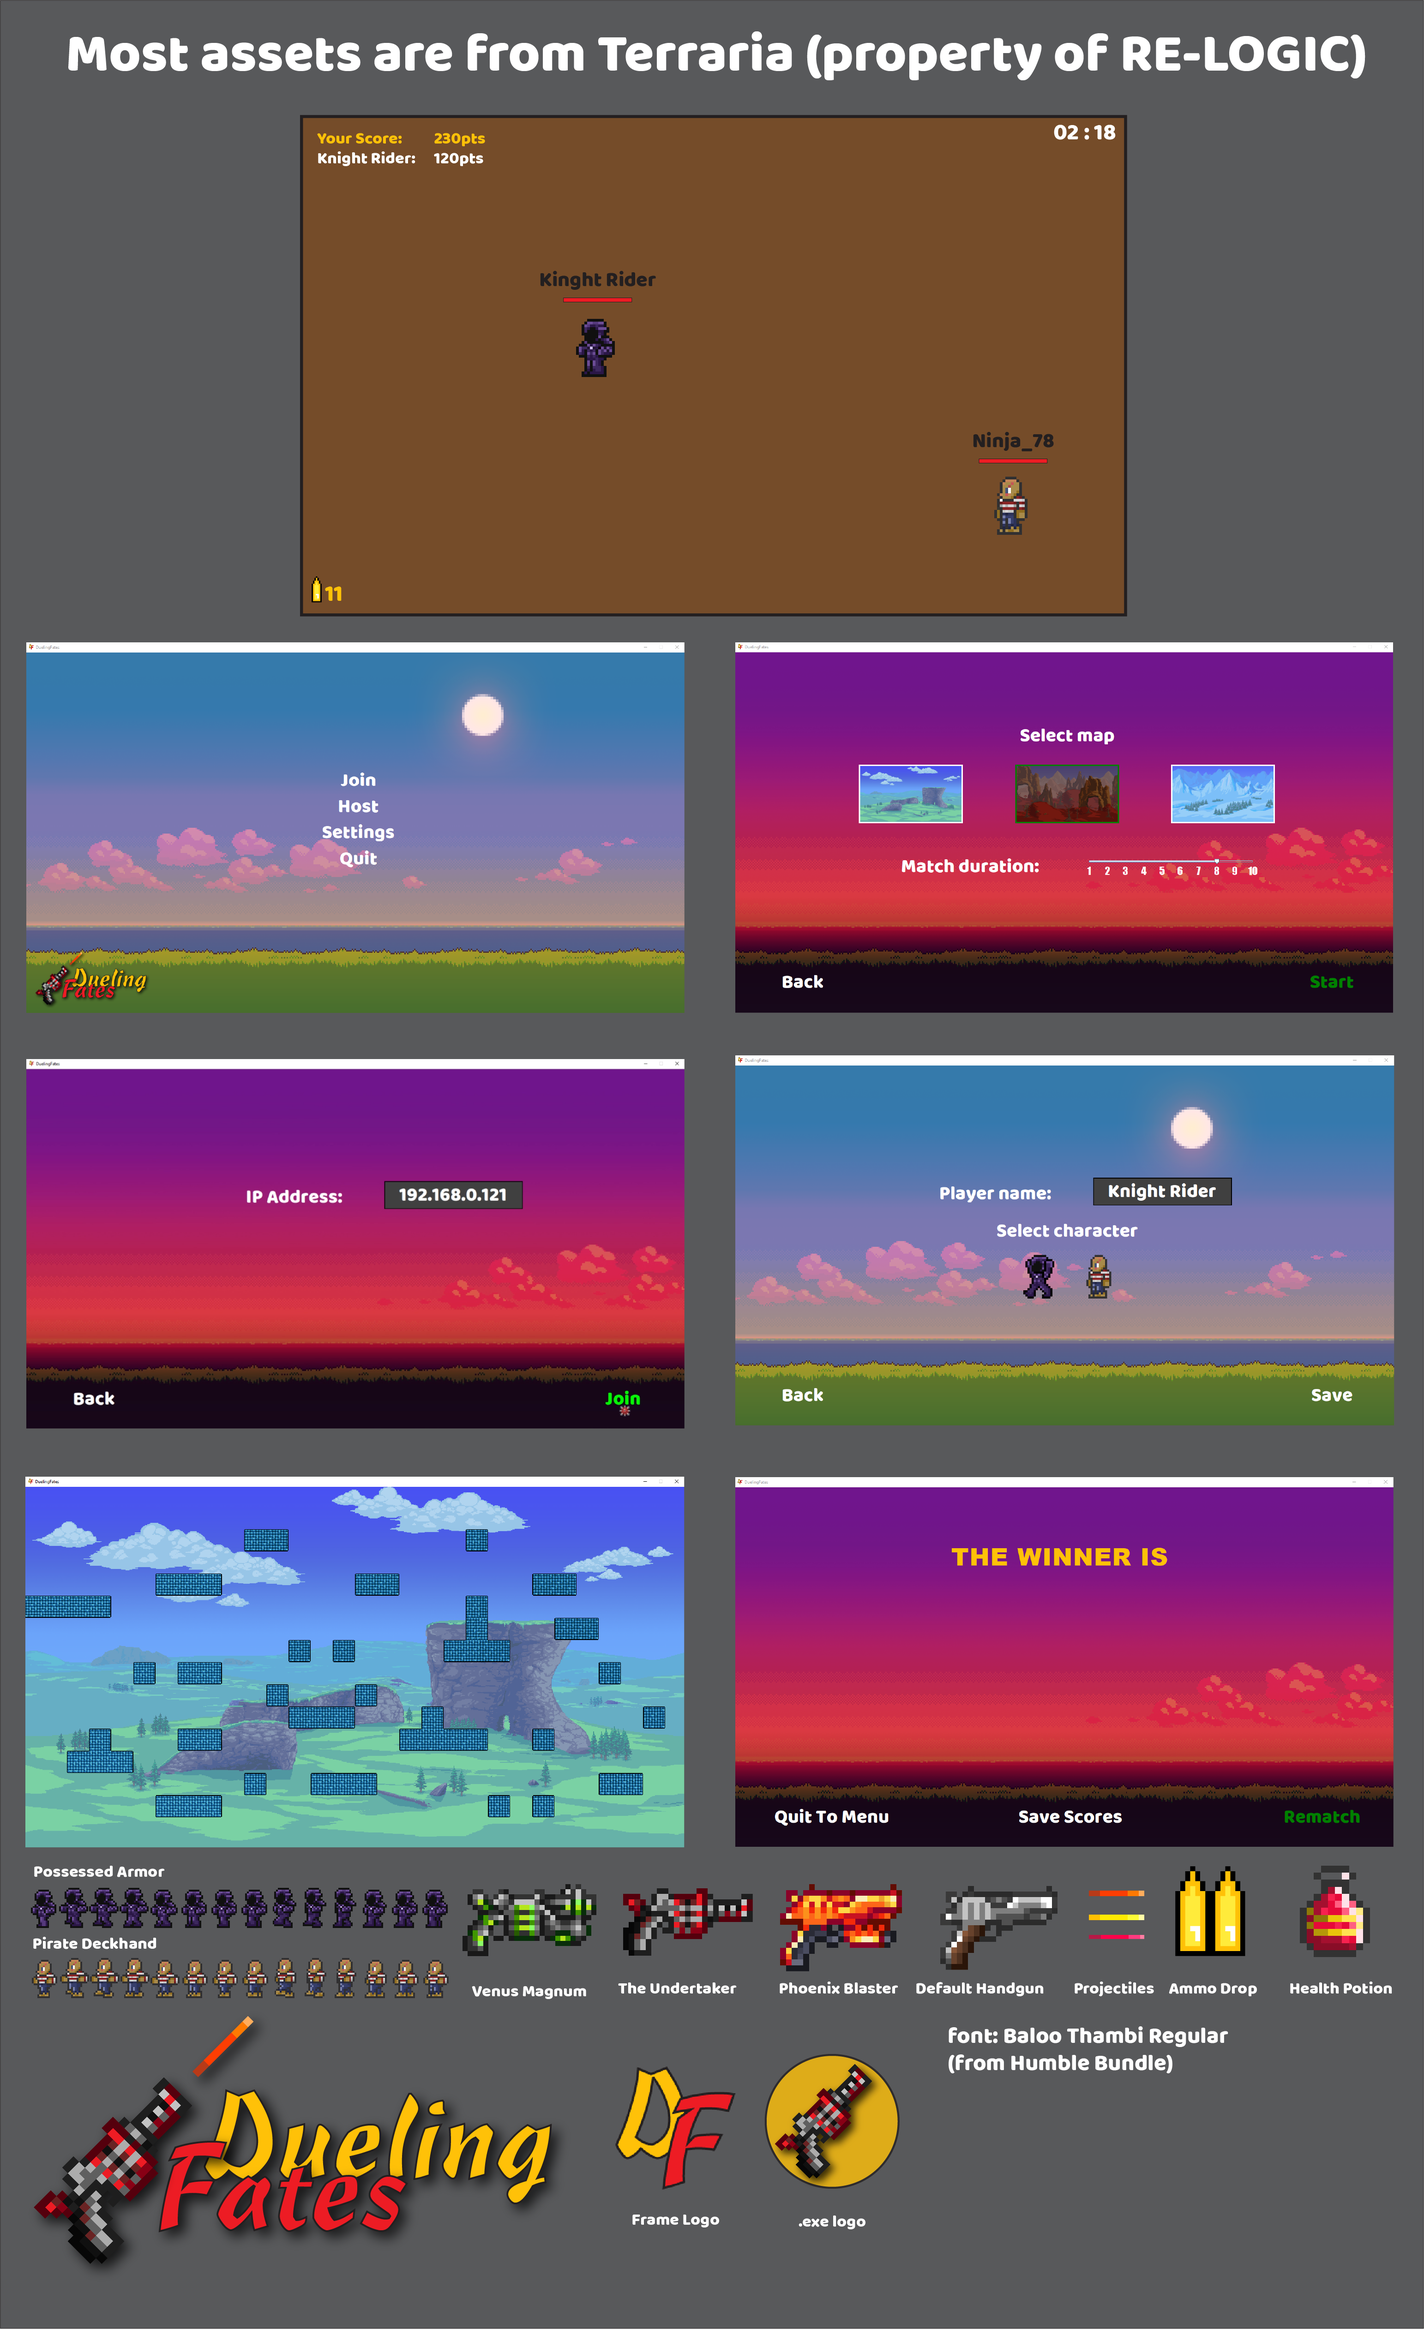
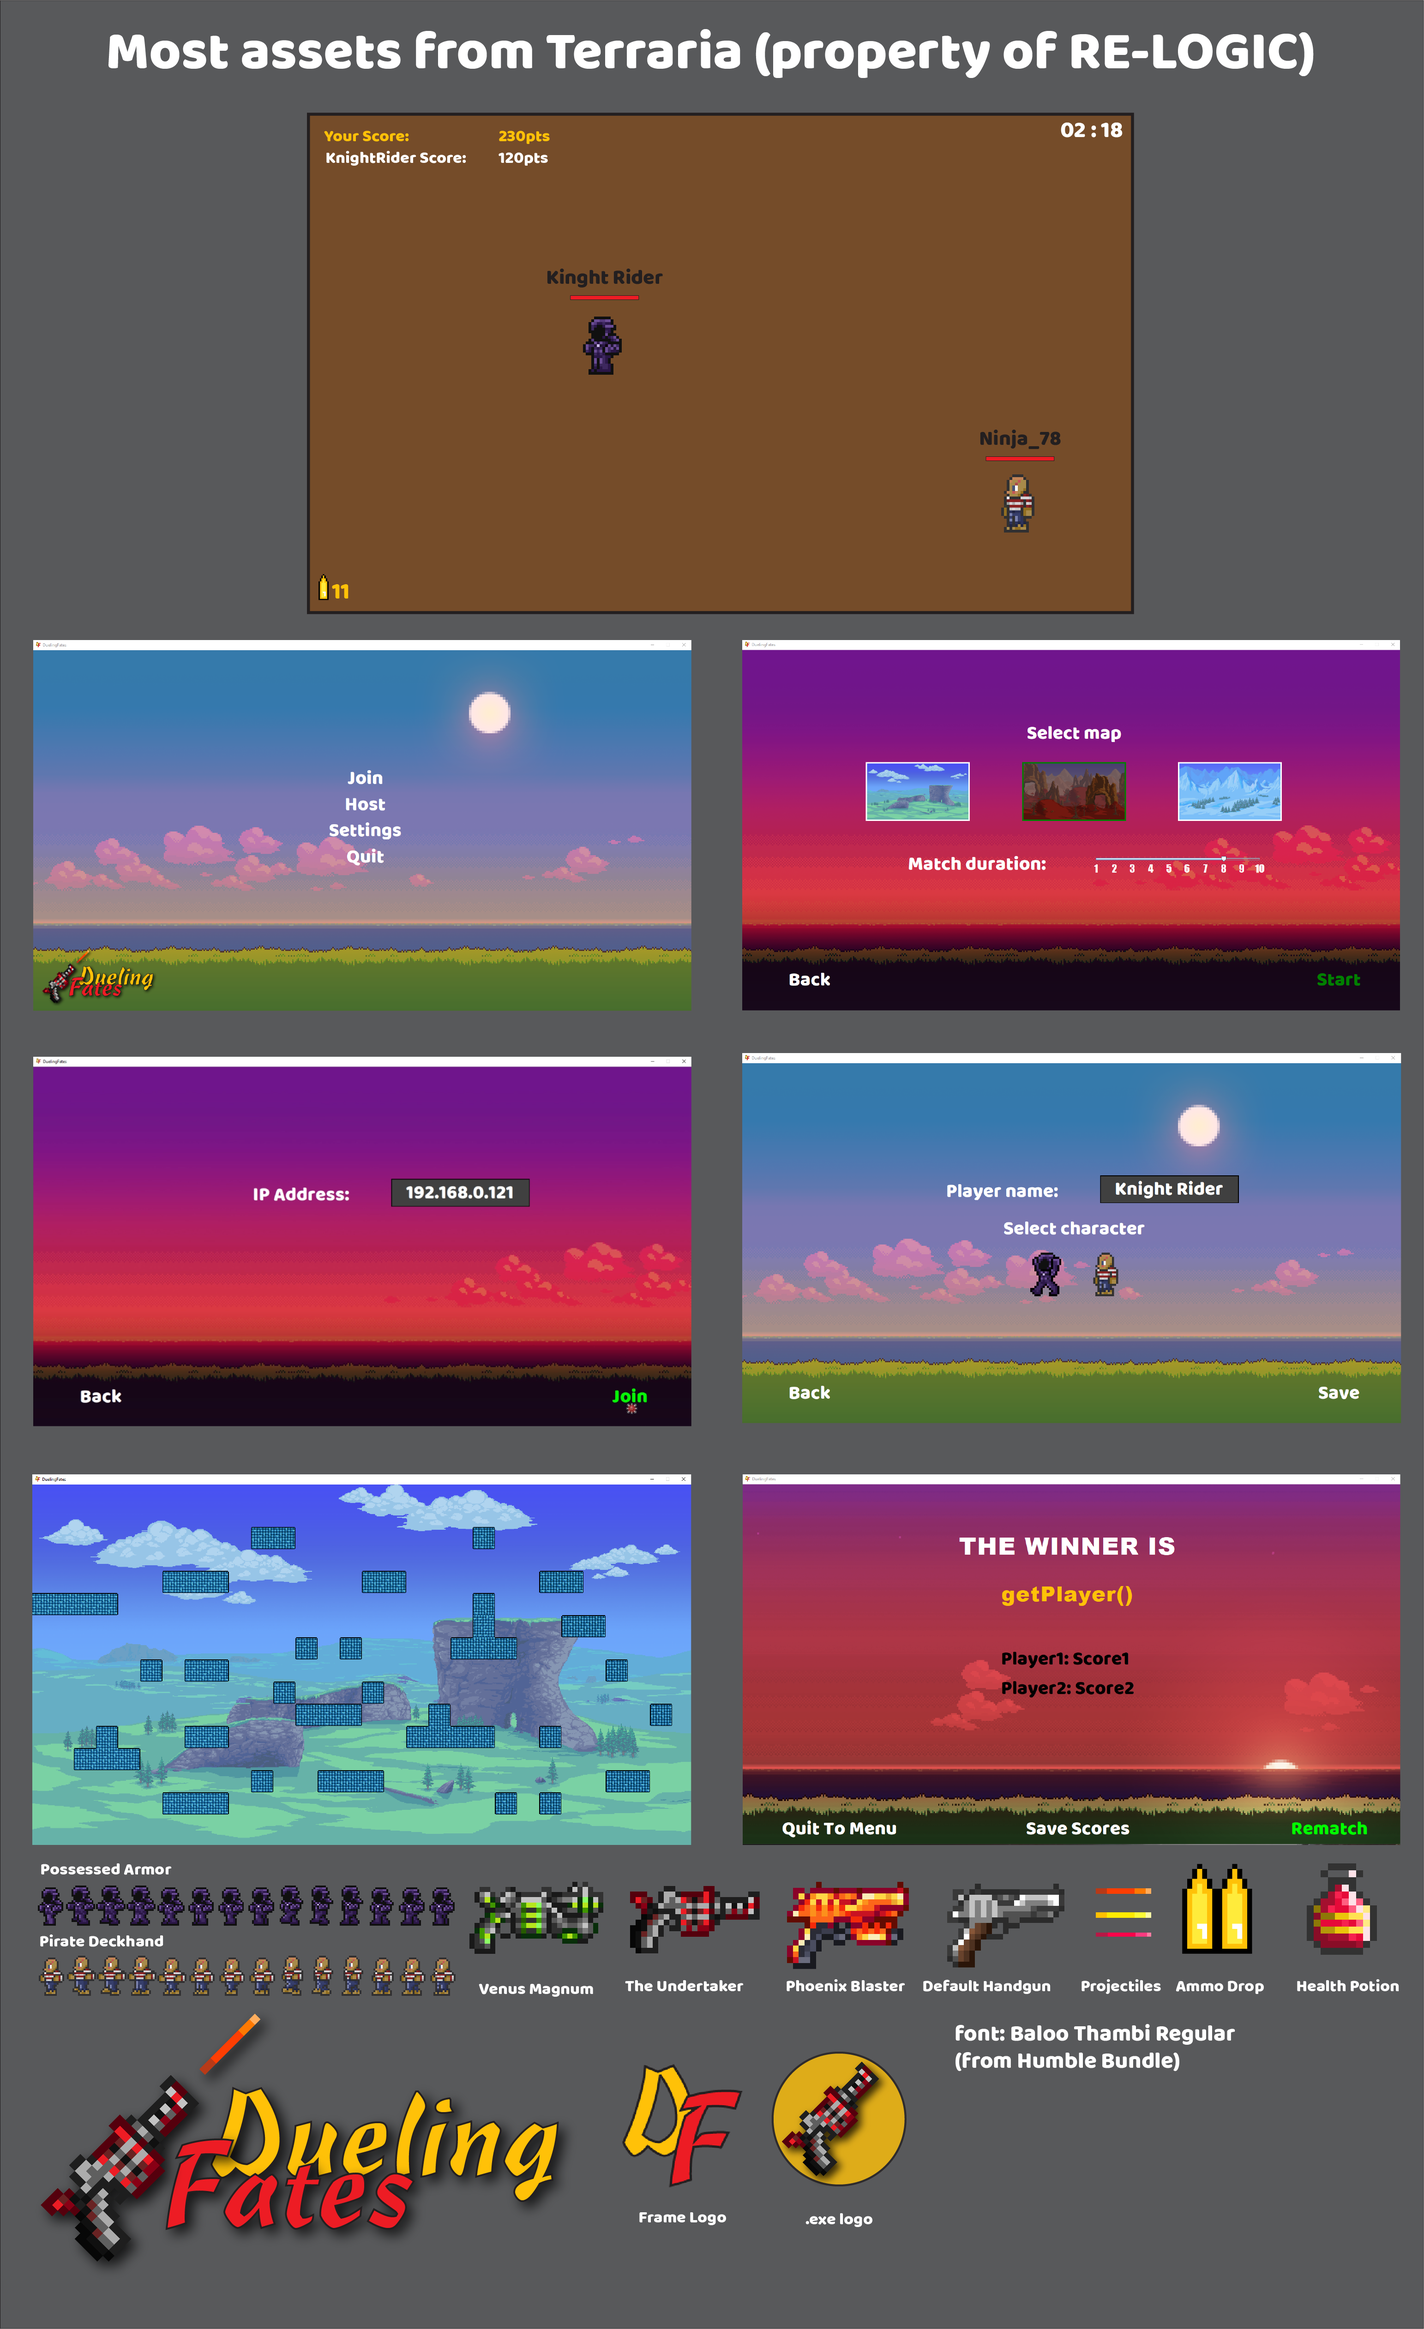
File writing, Only 2 player swing and fullscreen

Changed region(s): [[0.0, 0.0, 0.9958, 0.9643], [0.4045, 0.0933, 0.4357, 0.1866], [0.1867, 0.4977, 0.2489, 0.5288]]

diff --git a/DuelingFates/src/com/DuelingFates/GameState/ScoreState.java b/DuelingFates/src/com/DuelingFates/GameState/ScoreState.java
@@ -5,6 +5,9 @@ import com.DuelingFates.Main.MainProcess;
 import javax.swing.*;
 import java.awt.*;
 import java.awt.event.*;
+import java.io.*;
+import java.text.SimpleDateFormat;
+import java.util.Date;
 
 public class ScoreState extends GameState implements MouseListener, ActionListener {
 
@@ -20,8 +23,18 @@ public class ScoreState extends GameState implements MouseListener, ActionListen
 
     //Labels
     private final JLabel winnerLabel = new JLabel("THE WINNER IS");
+    private JLabel player1Label;
+    private JLabel player2Label;
 
+    //player adatok
+    private String player1Score;
+    private String player2Score;
 
+    //file adatok //nem a legjobb megoldás, Windows API-t használva biztonságosabb lenne
+    private final static File resultsTxt = new File("C:/Users/" + System.getProperty("user.name") + "/Desktop/results.txt");
+
+    //formátum a fájl kiírásához
+    SimpleDateFormat dateStyle = new SimpleDateFormat("yyyy/MM/dd HH:mm:ss");
 
     public ScoreState(StateManager stateManager){
 
@@ -45,10 +58,18 @@ public class ScoreState extends GameState implements MouseListener, ActionListen
 
     }
 
-    public void showWinnderAndPlayerScores(String player1, String player2, String player3, String score1, String score2, String score3 ){
+    public void printPlayersAndScores(String results){
 
-        //még nem tudom mi lesz itt
+        try {
 
+            BufferedWriter writer = new BufferedWriter(new FileWriter(resultsTxt, true));
+
+            writer.write(results);
+            writer.close();
+
+        }catch (IOException e) {
+            e.printStackTrace();
+        }
     }
 
     @Override
@@ -73,12 +94,21 @@ public class ScoreState extends GameState implements MouseListener, ActionListen
         winnerName.setForeground(MainMenuState.darkYellow);
         winnerName.setBounds((MainProcess.getGameWidth()/2)-370, (int)(MainProcess.getGameHeight()*0.25),700,90);
 
-        String playerText = "<html>Player1: Score1<br/>Player2: Score2<br/></html>";
-        JLabel playerScores = new JLabel(playerText);
-        playerScores.setHorizontalAlignment(SwingConstants.CENTER);
-        playerScores.setFont(MainProcess.BalooThambiFont);
-        playerScores.setForeground(Color.BLACK);
-        playerScores.setBounds((MainProcess.getGameWidth()/2)-370, (int)(MainProcess.getGameHeight()*0.37),700,300);
+        player1Score = "getName(): + getScore()";
+        player1Label = new JLabel(player1Score);
+        player2Score = "getName(): + getScore()";
+        player2Label = new JLabel(player2Score);
+
+        player1Label.setHorizontalAlignment(SwingConstants.CENTER);
+        player1Label.setFont(MainProcess.BalooThambiFont);
+        player1Label.setForeground(Color.BLACK);
+        player1Label.setBounds((MainProcess.getGameWidth()/2)-370, (int)(MainProcess.getGameHeight()*0.43),700,60);
+
+        player2Label.setHorizontalAlignment(SwingConstants.CENTER);
+        player2Label.setFont(MainProcess.BalooThambiFont);
+        player2Label.setForeground(Color.BLACK);
+        player2Label.setBounds((MainProcess.getGameWidth()/2)-370, (int)(MainProcess.getGameHeight()*0.50),700,60);
+
 
         layeredPane.setBounds(0,0, MainProcess.getGameWidth(), MainProcess.getGameHeight());
         layeredPane.add(backgroundLabel, JLayeredPane.DEFAULT_LAYER);
@@ -87,7 +117,9 @@ public class ScoreState extends GameState implements MouseListener, ActionListen
         layeredPane.add(buttonSaveToFile,JLayeredPane.POPUP_LAYER);
         layeredPane.add(winnerLabel, JLayeredPane.POPUP_LAYER);
         layeredPane.add(winnerName,JLayeredPane.POPUP_LAYER);
-        layeredPane.add(playerScores,JLayeredPane.POPUP_LAYER);
+        layeredPane.add(player1Label,JLayeredPane.POPUP_LAYER);
+        layeredPane.add(player2Label,JLayeredPane.POPUP_LAYER);
+
 
         duelingFates.setCursor(MainProcess.gameCursor);
         duelingFates.add(layeredPane);
@@ -105,16 +137,15 @@ public class ScoreState extends GameState implements MouseListener, ActionListen
         buttonSaveToFile.addActionListener(this);
         buttonSaveToFile.addMouseListener(this);
 
-
         buttonRematch.setBounds((int)(MainProcess.getGameWidth()*0.91)-200, (int)(MainProcess.getGameHeight()*0.90), 300,50);
         buttonRematch.setForeground(Color.green);
         buttonRematch.addActionListener(this);
         buttonRematch.addMouseListener(this);
 
-
         duelingFates.repaint();
 
         StateManager.setStateChangedFalse();
+
 
     }
 
@@ -135,7 +166,9 @@ public class ScoreState extends GameState implements MouseListener, ActionListen
 
         if(e.getSource() == buttonSaveToFile) {
 
-            System.out.println("PrintPlayersAndScores() has been called!");
+            Date time = new Date();
+            String results = new String(dateStyle.format(time) + "\t" + player1Score + " \t" + player2Score + "\n");
+            printPlayersAndScores(results);
 
         }
 

diff --git a/DuelingFates/src/com/DuelingFates/HUDs/HUD.java b/DuelingFates/src/com/DuelingFates/HUDs/HUD.java
@@ -14,26 +14,31 @@ public class HUD {
     //TODO list: evlileg ha csak a player saját adatait definiáljuk
     //és majd a Server ezeket megjeleníti, akkor nincs szükség az enemy UI-ra
     //ha nem, akkor csak két főre kell limitálnunk, és implementálni
+    //TODO: lehet enemy és player helyett first place és second place kell, ezáltal egyszerűbb lehet
 
     //player adatok
     private String playerNameUI;
     private String playerAmmoUI;
     private String playerScoreUI;
 
+    //enemy adatok
+    private String enemyNameUI;
+    private String enemyScoreUI;
 
     //egyéb adatok
     private String timerValue;
     private final String playerScoreLabel = new String("Your score:");
+    private final String enemyScoreLabel;
 
     //ammo image
     private BufferedImage ammoImg;
 
     public HUD(Player p){
 
-        this.timerValue = "getTimerValue()";
-        this.playerNameUI = "getPlayerName()";
-        this.playerScoreUI = "getPlayerScore()";
-        this.playerAmmoUI = "getPlayerAmmo()";
+        //session során nem frissülő adatok
+        enemyScoreLabel = "EnemyName() score:";
+        playerNameUI = "getPlayerName()";
+        enemyNameUI = "getEnemyName()";
 
         try{
 
@@ -49,6 +54,14 @@ public class HUD {
     //TODO: Ha a playert, mindig átadjuk argumentumként akkor az adatok könnyen lekérdezhetők
     public void draw(Graphics2D graphics){
 
+        //frissülő adatok lekérdezése
+        timerValue = "getTimerValue()";
+
+        playerScoreUI = "getPlayerScore()";
+        playerAmmoUI = "getPlayerAmmo()";
+
+        enemyScoreUI = "getEnemyScore()";
+
         graphics.setRenderingHint(RenderingHints.KEY_TEXT_ANTIALIASING,RenderingHints.VALUE_TEXT_ANTIALIAS_LCD_HRGB);
 
         graphics.drawImage(ammoImg,(int)(MainProcess.getGameWidth()*0.05),(int)(MainProcess.getGameHeight()*0.90),ammoImg.getWidth(),ammoImg.getHeight(),null);
@@ -58,10 +71,26 @@ public class HUD {
         graphics.drawString(playerScoreLabel,(int)(MainProcess.getGameWidth()*0.05),(int)(MainProcess.getGameHeight()*0.05));
         graphics.drawString(playerScoreUI,(int)(MainProcess.getGameWidth()*0.25),(int)(MainProcess.getGameHeight()*0.05));
 
+        graphics.setColor(Color.white);
+        graphics.drawString(enemyScoreLabel,(int)(MainProcess.getGameWidth()*0.05),(int)(MainProcess.getGameHeight()*0.11));
+        graphics.drawString(enemyScoreUI,(int)(MainProcess.getGameWidth()*0.25),(int)(MainProcess.getGameHeight()*0.05));
+
         graphics.setColor(Color.WHITE);
         graphics.drawString(timerValue,(int)(MainProcess.getGameWidth()*0.05),(int)(MainProcess.getGameHeight()*0.95));
 
+        //Player adatok
         /**graphics.drawString(playerNameUI,(int)getPlayerPositionX(), (int)getPlayerPositionY()-80);
+
+         graphics.setColor(MainMenuState.darkRed);
+         graphics.fillRect(getPlayerHP(), 40, (int)getPlayerPositionX(), (int)getPlayerPositionY-50());
+
+         graphics.setColor(Color.BLACK);
+         graphics.drawRect((int)(MainProcess.getGameWidth()*0.06), 40, (int)getPlayerPositionX(), (int)getPlayerPositionY-50());
+
+         **/
+
+        //Enemy adatok
+        /**graphics.drawString(enemyNameUI,(int)getPlayerPositionX(), (int)getPlayerPositionY()-80);
 
          graphics.setColor(MainMenuState.darkRed);
          graphics.fillRect(getPlayerHP(), 40, (int)getPlayerPositionX(), (int)getPlayerPositionY-50());

diff --git a/DuelingFates/src/com/DuelingFates/TileMap/TileMap.java b/DuelingFates/src/com/DuelingFates/TileMap/TileMap.java
@@ -27,7 +27,7 @@ public class TileMap {
     private Tile tileHorizontal;
     private Tile tileVertical;
 
-    public TileMap(int tileSize) {                      //64x64 miatt 30db soronként és 16 oszloponként
+    public TileMap(int tileSize) {                      //1920*1080 64x64 miatt 30db soronként és 16 oszloponként     //1600*9000 53*53
 
         this.tileSize = tileSize;
         this.tiles = new Tile[9];
@@ -37,6 +37,7 @@ public class TileMap {
     public void loadTilesFormFiles(String fileLocation) {
 
         try {
+
             tileLonely = new Tile(ImageIO.read(new File(fileLocation + "TileLonely.png")));
             tileUp = new Tile(ImageIO.read(new File(fileLocation + "TileUp.png")));
             tileDown = new Tile(ImageIO.read(new File(fileLocation + "TileDown.png")));
@@ -111,8 +112,15 @@ public class TileMap {
 
                 //minden más esetben a tiles[] tömb adott pozíciójában található elemét rajzoljuk (pl. 5),
                 //mely megegyezik a mapLayout[][] "mátrix" adott elemének értékével.
-                graphics.drawImage(tiles[mapLayout[row][col]].getTileImage(),
-                                mapStartX + col*tileSize,mapStartY + row*tileSize,null);
+                //Ha kisebb felbontáson szeretnénk játszani akkor az alábbi kirajzolás skálázza az imaget
+                //Ehhez egyedül a tile méretét kell tudni, a beolvasott tile mindig 64 pixeles
+                //A kirajzoláskor vett pixelszélességgel kell a játékban is számolni, ami 53 1600*900-as febontáson
+                graphics.drawImage(tiles[mapLayout[row][col]].getTileImage().getScaledInstance(
+                                (int)(tiles[mapLayout[row][col]].getTileImage().getWidth()*((float)tileSize/64f)),
+                                (int)(tiles[mapLayout[row][col]].getTileImage().getWidth()*((float)tileSize/64f)),
+                                Image.SCALE_SMOOTH),
+                                mapStartX + (int)(col*tileSize*(tileSize/64f)),
+                                mapStartY + (int)(row*tileSize*(tileSize/64f)),null);
 
             }
 

diff --git a/DuelingFates/src/com/DuelingFates/GameState/MainMenuState.java b/DuelingFates/src/com/DuelingFates/GameState/MainMenuState.java
@@ -53,7 +53,6 @@ public class MainMenuState extends GameState implements ActionListener, MouseLis
     public void updateSwingUI(JFrame duelingFates,JLayeredPane layeredPane) {
 
         layeredPane.removeAll();
-
         backgroundLabel.setBounds(0,0,background.getIconWidth(), background.getIconHeight());
         logoImageLabel.setBounds((int)(MainProcess.getGameWidth()*-0.055),(int)(MainProcess.getGameHeight()*0.74),logoImage.getIconWidth()/2, logoImage.getIconHeight()/2);
 
@@ -71,7 +70,6 @@ public class MainMenuState extends GameState implements ActionListener, MouseLis
         layeredPane.add(buttonQuit,JLayeredPane.POPUP_LAYER);
 
         //majd fullscreen esetben
-        //duelingFates.setUndecorated(true);                                     //nincs keret
         //duelingFates.setExtendedState(JFrame.MAXIMIZED_BOTH);                  //max Vertical & Horizontal
         duelingFates.setCursor(MainProcess.gameCursor);
         duelingFates.add(layeredPane);

diff --git a/DuelingFates/src/com/DuelingFates/Main/MainProcess.java b/DuelingFates/src/com/DuelingFates/Main/MainProcess.java
@@ -73,8 +73,9 @@ public class MainProcess extends JPanel implements Runnable{
         Image invisibleImage = Toolkit.getDefaultToolkit().createImage(new MemoryImageSource(16, 16, empty, 0, 16));
         hiddenCursor = Toolkit.getDefaultToolkit().createCustomCursor(invisibleImage, new Point(0,0), "hiddenCursor");
 
+        duelingFates.setUndecorated(true);                                                    //nincs keret
         duelingFates.setSize(new Dimension(getGameWidth(), getGameHeight()));                 //méret megadása, csak Dimension típust értelmez
-        duelingFates.setLocationRelativeTo(null);                                   //null: az ablak a képernyőn közepén lesz, focust alapértelmezetten kap
+        duelingFates.setLocationRelativeTo(null);                                             //null: az ablak a képernyőn közepén lesz, focust alapértelmezetten kap
 
         startThread();
     }

diff --git a/DuelingFates/src/com/DuelingFates/GameState/SettingsState.java b/DuelingFates/src/com/DuelingFates/GameState/SettingsState.java
@@ -89,7 +89,7 @@ public class SettingsState extends GameState implements ActionListener, MouseLis
         characterSelectionLabel.setFont(MainProcess.BalooThambiFont);
         characterSelectionLabel.setText("Select character");
         characterSelectionLabel.setForeground(Color.WHITE);
-        characterSelectionLabel.setBounds(MainProcess.getGameWidth()/2-205,(int)(MainProcess.getGameHeight()*0.42),410,50);
+        characterSelectionLabel.setBounds(MainProcess.getGameWidth()/2-205,(int)(MainProcess.getGameHeight()*0.42),450,50);
 
         pirateJRadioButton.setIcon(pirateImg);
         pirateJRadioButton.setName("PirateDeckhand");

diff --git a/DuelingFates/src/com/DuelingFates/GameState/GamePlayState.java b/DuelingFates/src/com/DuelingFates/GameState/GamePlayState.java
@@ -1,5 +1,6 @@
 package com.DuelingFates.GameState;
 
+import com.DuelingFates.HUDs.EscapeMenu;
 import com.DuelingFates.Main.MainProcess;
 import com.DuelingFates.TileMap.TileMap;
 
